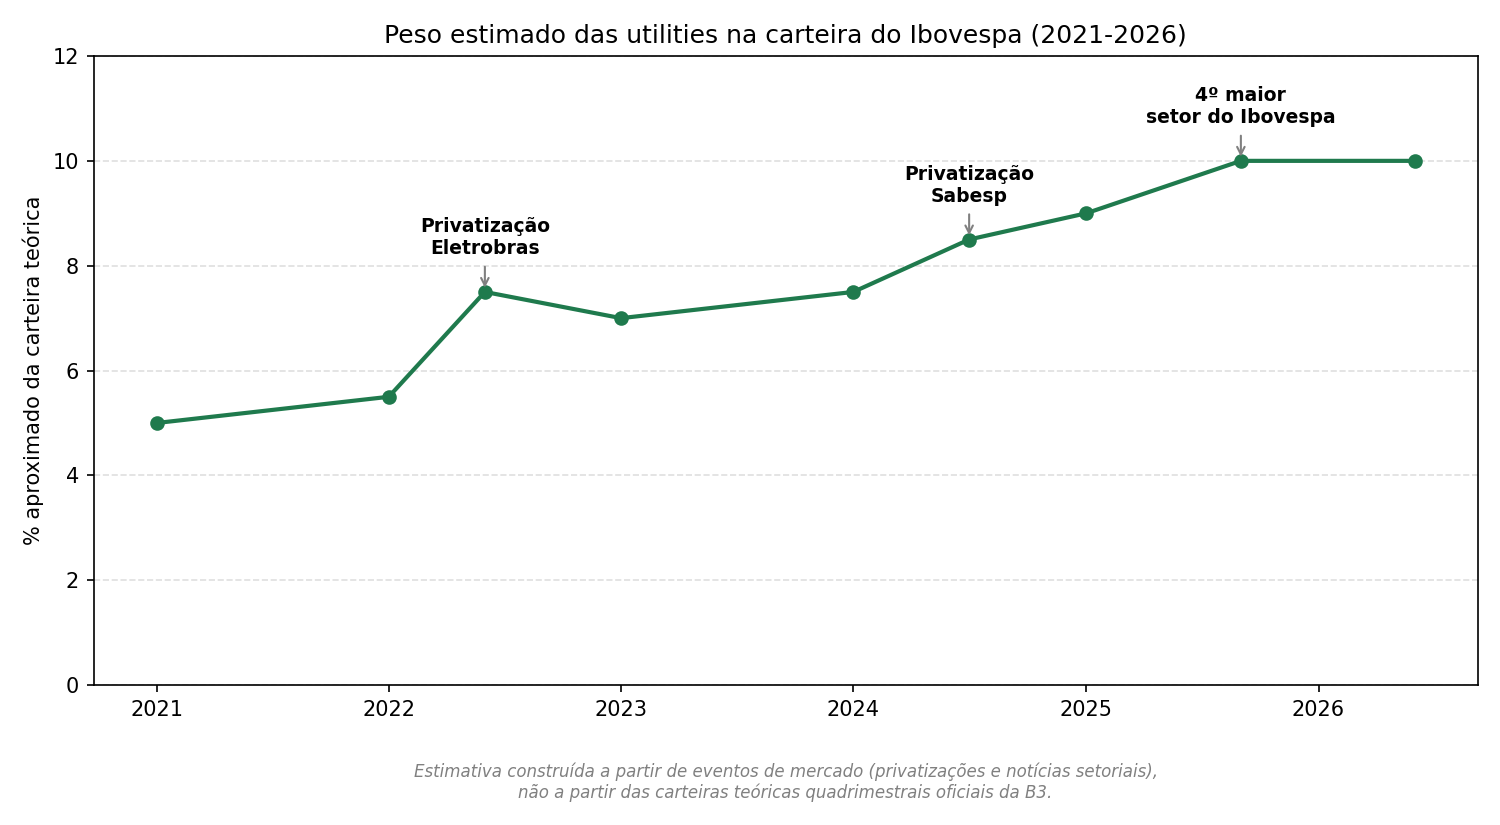
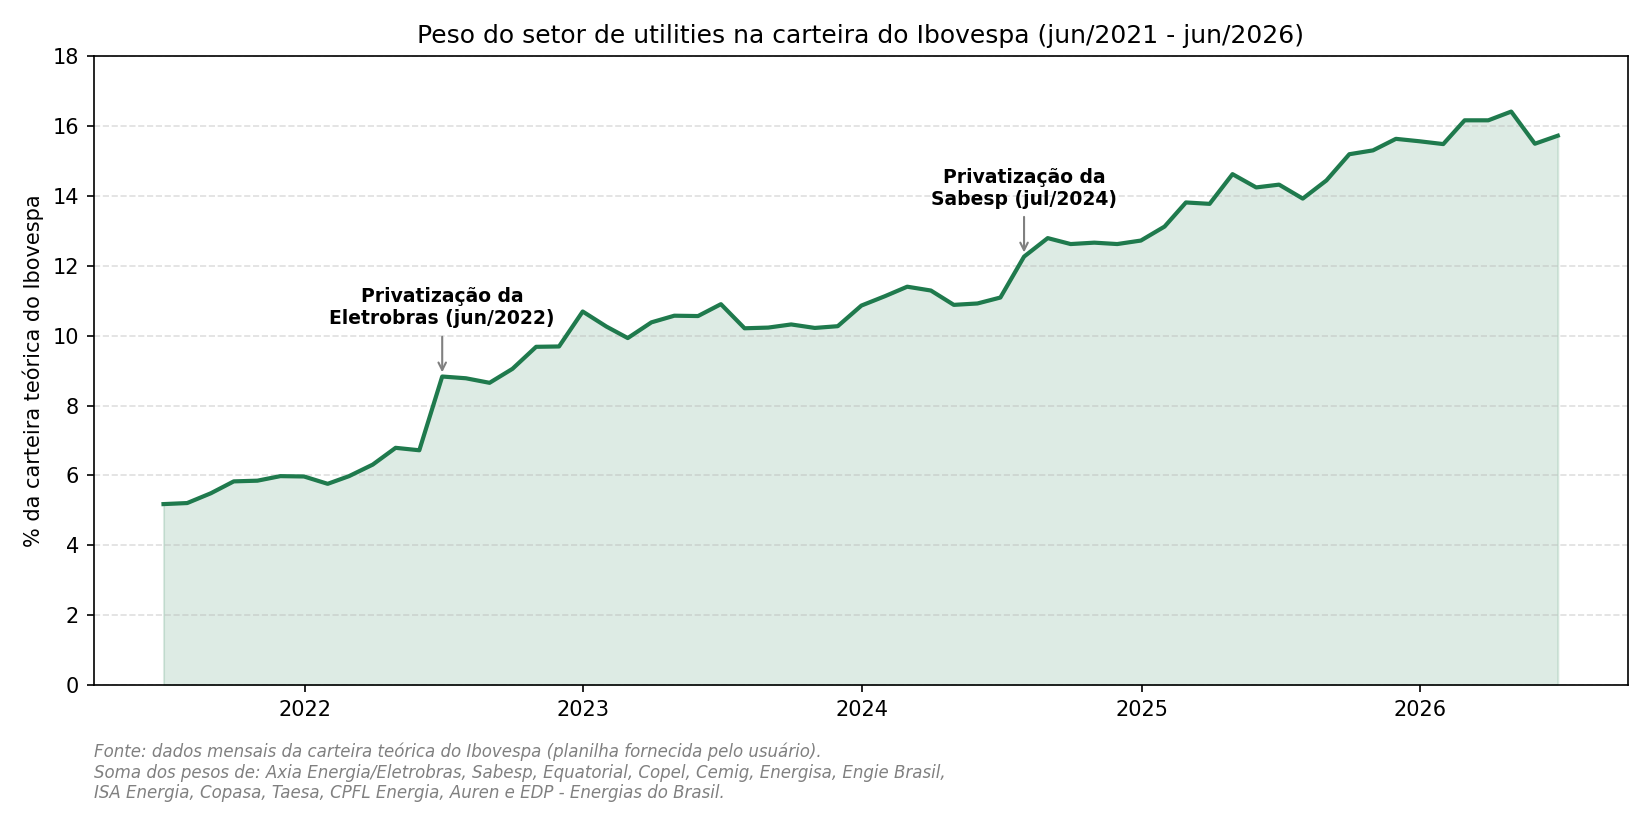
Substitui estimativas por dados reais da carteira teórica do Ibovespa (2021-2026)

diff --git a/analises/gerar_grafico.py b/analises/gerar_grafico.py
@@ -1,43 +1,61 @@
+import openpyxl
 import matplotlib
 matplotlib.use("Agg")
 import matplotlib.pyplot as plt
 import matplotlib.dates as mdates
-from datetime import date
 
-# Estimativa do peso aproximado do setor de utilities (energia elétrica,
-# saneamento e gás) na carteira teórica do Ibovespa, 2021-2026.
-# Construída a partir de eventos de mercado documentados (privatizações da
-# Eletrobras e da Sabesp, e a entrada do setor entre os 4 maiores do índice
-# em 2025) - NÃO são dados oficiais quadrimestrais da B3.
-pontos = [
-    (date(2021, 1, 1), 5.0, "Início de 2021"),
-    (date(2022, 1, 1), 5.5, "Início de 2022"),
-    (date(2022, 6, 1), 7.5, "Privatização da Eletrobras (jun/2022)"),
-    (date(2023, 1, 1), 7.0, "Início de 2023"),
-    (date(2024, 1, 1), 7.5, "Início de 2024"),
-    (date(2024, 7, 1), 8.5, "Privatização da Sabesp (jul/2024)"),
-    (date(2025, 1, 1), 9.0, "Início de 2025"),
-    (date(2025, 9, 1), 10.0, "Utilities vira o 4º maior setor do Ibovespa"),
-    (date(2026, 6, 1), 10.0, "Atual (jun/2026)"),
-]
+import os
+XLSX = os.path.join(os.path.dirname(__file__), "Ibov_mensal.xlsx")
 
-datas = [p[0] for p in pontos]
-pesos = [p[1] for p in pontos]
+wb = openpyxl.load_workbook(XLSX, data_only=True)
+ws = wb["Planilha1"]
+rows = list(ws.iter_rows(min_row=5, max_row=135, values_only=True))
+header = rows[0]
+dates = list(header[4:])
 
-fig, ax = plt.subplots(figsize=(10, 5.5))
-ax.plot(datas, pesos, marker="o", color="#1f7a4d", linewidth=2)
-
-destaques = {
-    date(2022, 6, 1): "Privatização\nEletrobras",
-    date(2024, 7, 1): "Privatização\nSabesp",
-    date(2025, 9, 1): "4º maior\nsetor do Ibovespa",
+# Empresas de utilities (energia elétrica, saneamento e gás) presentes no
+# Ibovespa ao longo do período. AXIA3/AXIA6/AXIA7 = Eletrobras (renomeada
+# para Axia Energia em nov/2025).
+util_tickers = {
+    "AXIA3", "AXIA5", "AXIA6", "AXIA7",  # Eletrobras / Axia Energia
+    "SBSP3",   # Sabesp
+    "EQTL3",   # Equatorial Energia
+    "CPLE3", "CPLE5", "CPLE6",  # Copel
+    "CMIG4",   # Cemig
+    "ENGI11",  # Energisa
+    "EGIE3",   # Engie Brasil Energia
+    "ISAE4",   # ISA Energia Brasil (ex-CTEEP)
+    "CSMG3",   # Copasa
+    "TAEE11",  # Taesa
+    "CPFE3",   # CPFL Energia
+    "AURE3",   # Auren Energia
+    "ENBR3",   # EDP - Energias do Brasil
 }
-for d, peso, _ in pontos:
-    if d in destaques:
+
+n = len(dates)
+sums = [0.0] * n
+for r in rows[1:]:
+    code = r[3]
+    if code in util_tickers:
+        for i, v in enumerate(r[4:]):
+            if isinstance(v, (int, float)):
+                sums[i] += v
+
+fig, ax = plt.subplots(figsize=(11, 5.5))
+ax.plot(dates, sums, color="#1f7a4d", linewidth=2)
+ax.fill_between(dates, sums, color="#1f7a4d", alpha=0.15)
+
+eventos = {
+    "2022-06": "Privatização da\nEletrobras (jun/2022)",
+    "2024-07": "Privatização da\nSabesp (jul/2024)",
+}
+for d, val in zip(dates, sums):
+    key = d.strftime("%Y-%m")
+    if key in eventos:
         ax.annotate(
-            destaques[d],
-            xy=(d, peso),
-            xytext=(0, 18),
+            eventos[key],
+            xy=(d, val),
+            xytext=(0, 25),
             textcoords="offset points",
             ha="center",
             fontsize=9,
@@ -45,20 +63,24 @@ for d, peso, _ in pontos:
             arrowprops=dict(arrowstyle="->", color="gray"),
         )
 
-ax.set_title("Peso estimado das utilities na carteira do Ibovespa (2021-2026)")
-ax.set_ylabel("% aproximado da carteira teórica")
-ax.set_ylim(0, 12)
+ax.set_title("Peso do setor de utilities na carteira do Ibovespa (jun/2021 - jun/2026)")
+ax.set_ylabel("% da carteira teórica do Ibovespa")
+ax.set_ylim(0, 18)
 ax.xaxis.set_major_locator(mdates.YearLocator())
 ax.xaxis.set_major_formatter(mdates.DateFormatter("%Y"))
 ax.grid(axis="y", linestyle="--", alpha=0.4)
 
 ax.text(
-    0.5, -0.18,
-    "Estimativa construída a partir de eventos de mercado (privatizações e notícias setoriais),\n"
-    "não a partir das carteiras teóricas quadrimestrais oficiais da B3.",
-    transform=ax.transAxes, ha="center", fontsize=8, style="italic", color="gray",
+    0.0, -0.18,
+    "Fonte: dados mensais da carteira teórica do Ibovespa (planilha fornecida pelo usuário).\n"
+    "Soma dos pesos de: Axia Energia/Eletrobras, Sabesp, Equatorial, Copel, Cemig, Energisa, Engie Brasil,\n"
+    "ISA Energia, Copasa, Taesa, CPFL Energia, Auren e EDP - Energias do Brasil.",
+    transform=ax.transAxes, ha="left", fontsize=8, style="italic", color="gray",
 )
 
 plt.tight_layout()
 plt.savefig("/home/user/investigacao-cnpj/analises/peso-utilities-ibovespa.png", dpi=150)
-print("done")
+
+# imprime resumo para conferência
+for d, s in zip(dates, sums):
+    print(d.strftime("%Y-%m"), round(s, 2))

diff --git a/analises/peso-utilities-ibovespa.md b/analises/peso-utilities-ibovespa.md
@@ -2,50 +2,52 @@
 
 ## Resumo
 
-Nos últimos cinco anos, o setor de *utilities* (energia elétrica, saneamento
-e gás) praticamente dobrou seu peso na carteira teórica do Ibovespa, saindo
-de uma posição discreta para se tornar um dos quatro setores mais relevantes
-do índice. Esse movimento foi puxado por dois grandes eventos de
-privatização — Eletrobras (2022) e Sabesp (2024) — somados a um forte
-desempenho das ações do setor em 2025, beneficiadas pela perspectiva de queda
-de juros.
+Com base na carteira teórica mensal do Ibovespa, o setor de *utilities*
+(energia elétrica, saneamento e gás) **praticamente triplicou seu peso** no
+índice entre junho de 2021 e junho de 2026, saindo de **5,2%** para **15,7%**
+da carteira. O crescimento não foi linear: dois saltos concentrados coincidem
+exatamente com as privatizações da Eletrobras (2022) e da Sabesp (2024), além
+de uma trajetória de alta consistente ao longo de 2025.
 
 ## Linha do tempo
 
-- **2021-2022**: o setor mantinha peso modesto no índice, fragmentado entre
-  empresas como CPFL, Cemig, Equatorial, Energisa e Eletrobras (esta última
-  ainda com forte participação estatal).
-- **Junho de 2022**: a privatização da Eletrobras — maior oferta de ações do
-  ano no Brasil, R$ 33,7 bilhões — elevou de forma imediata o peso de ELET3
-  na carteira do Ibovespa em cerca de 2,5 pontos percentuais, levando o papel
-  à 8ª posição do índice.
-- **2023-2024**: o setor seguiu ganhando espaço de forma mais gradual, com
-  destaque para Equatorial e Energisa.
-- **Julho de 2024**: a privatização da Sabesp (R$ 14,8 bilhões, recorde do
-  setor de saneamento) trouxe novo aumento de peso, com a Equatorial
-  assumindo participação relevante na companhia.
-- **2025**: as utilities se tornaram o **4º maior setor do Ibovespa**. O
-  Índice de Utilidade Pública (UTIL B3) acumulou alta superior a 20% no ano,
-  bem acima dos cerca de 11% do Ibovespa, puxado por Equatorial, CPFL,
-  Eletrobras, Neoenergia, Energisa e Auren (sucessora da Cesp).
+- **Jun/2021 a mai/2022**: peso estável, entre 5,2% e 6,8%, com o setor
+  pulverizado entre Cemig, Copel, CPFL, Equatorial, Energisa, Engie, Taesa,
+  ISA Energia, Copasa, EDP e Sabesp (esta última ainda com peso pequeno,
+  ~0,7%).
+- **Jun/2022 — privatização da Eletrobras**: o peso do setor salta de 6,72%
+  para 8,83% em um único mês — alta de mais de 2 pontos percentuais,
+  praticamente toda explicada pelo aumento da participação da então ELET3
+  (hoje AXIA3, após o rebranding para Axia Energia em nov/2025).
+- **Jul/2022 a jun/2024**: alta gradual e consistente, de 8,8% para ~11%,
+  puxada principalmente pela valorização de Equatorial e pelo crescimento
+  contínuo de Sabesp (que já passava de 1,3% no início de 2024).
+- **Jul/2024 — privatização da Sabesp**: novo salto, de 11,09% para 12,26% em
+  um mês — o peso de SBSP3 mais que dobra (de ~1,25% para ~2,22%) com a
+  conclusão da oferta e a entrada da Equatorial como acionista de referência.
+- **2025**: trajetória de alta praticamente ininterrupta, de 12,7% (dez/2024)
+  para 15,6% (dez/2025), período em que o setor se consolidou entre os mais
+  relevantes do índice, beneficiado pelo caráter defensivo das utilities e
+  pela perspectiva de queda de juros.
+- **2026 (até jun)**: peso oscila na casa dos 15-16%, mantendo o patamar mais
+  alto de toda a série.
 
 ## Gráfico
 
-![Peso estimado das utilities na carteira do Ibovespa (2021-2026)](./peso-utilities-ibovespa.png)
+![Peso do setor de utilities na carteira do Ibovespa (jun/2021 - jun/2026)](./peso-utilities-ibovespa.png)
 
-> **Nota sobre os dados**: a B3 não publica um histórico público e
-> facilmente acessível do peso percentual exato de cada setor a cada
-> quadrimestre. O gráfico acima é uma **estimativa qualitativa**, construída
-> a partir dos eventos de mercado documentados acima (privatizações e
-> notícias setoriais) — não a partir das carteiras teóricas oficiais
-> quadrimestre a quadrimestre. Para um número exato em uma data específica,
-> é necessário consultar diretamente a carteira teórica vigente em
-> [b3.com.br](https://www.b3.com.br/pt_br/market-data-e-indices/indices/indices-amplos/indice-ibovespa-ibovespa-composicao-da-carteira.htm).
+O gráfico foi construído somando, mês a mês, o peso de todas as empresas de
+energia elétrica, saneamento e gás presentes na carteira teórica do Ibovespa:
+Axia Energia/Eletrobras (AXIA3/AXIA6/AXIA7, ex-ELET3/ELET6), Sabesp (SBSP3),
+Equatorial (EQTL3), Copel (CPLE3/5/6), Cemig (CMIG4), Energisa (ENGI11),
+Engie Brasil (EGIE3), ISA Energia/CTEEP (ISAE4), Copasa (CSMG3), Taesa
+(TAEE11), CPFL Energia (CPFE3), Auren (AURE3) e EDP - Energias do Brasil
+(ENBR3).
 
 ## Fontes
 
+- Carteira teórica mensal do Ibovespa, jun/2021-jun/2026 (dados fornecidos pelo usuário)
 - [Seu Dinheiro - Privatização da Eletrobras (2022)](https://www.seudinheiro.com/2022/empresas/privatizacao-da-eletrobras-preco-por-acao-elet3-julw/)
 - [Seu Dinheiro - Privatização da Sabesp: maior oferta de saneamento da história (2024)](https://www.seudinheiro.com/2024/empresas/sabesp-sbsp3-privatizacao-maior-oferta-saneamento-historia-rsgp-ccgg/)
+- [InfoMoney - Axia, ex-Eletrobras, estreia novo ticker na B3 (nov/2025)](https://www.infomoney.com.br/mercados/axia3-axia-ex-eletrobras-estreia-novo-ticker-na-b3-nesta-segunda/)
 - [Monte Bravo - Utilities: o setor de maior destaque na Bolsa em 2025](https://www.montebravo.com.br/blog/investimentos/utilities/)
-- [InfoMoney - "Conservadoras e queridinhas": por que as elétricas brilham na Bolsa em 2025?](https://www.infomoney.com.br/mercados/conservadoras-e-queridinhas-por-que-as-eletricas-brilham-na-bolsa-em-2025/)
-- [B3 - Composição da carteira do Ibovespa](https://www.b3.com.br/pt_br/market-data-e-indices/indices/indices-amplos/indice-ibovespa-ibovespa-composicao-da-carteira.htm)
